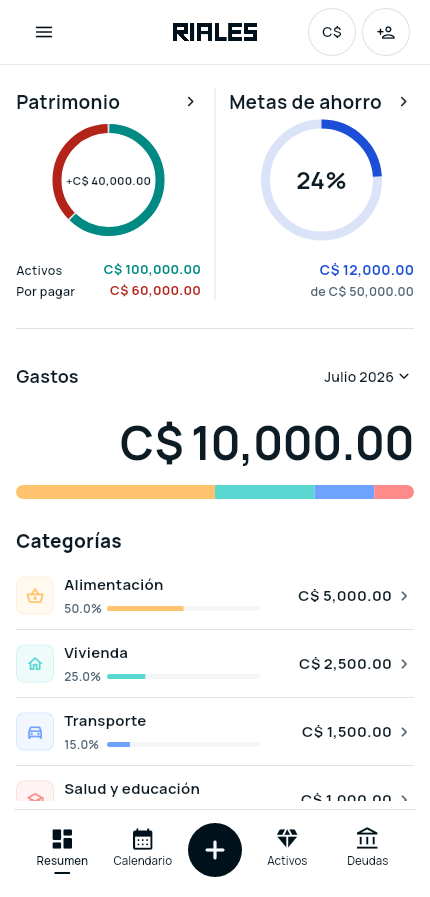
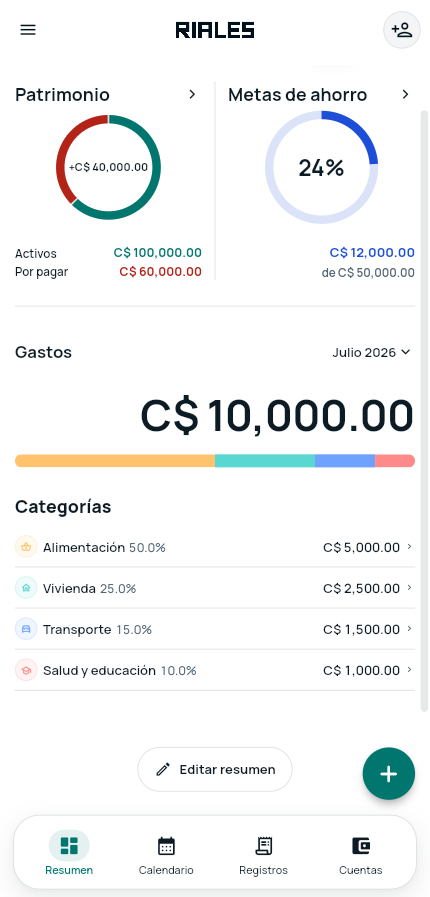
Deploy from a883082448d6c5763bde9acc114ca218c60708e1

diff --git a/index.html b/index.html
@@ -66,7 +66,7 @@
 
         <div class="hero-phones" aria-label="Pantalla principal de RIALES">
           <div class="device-mockup hero-device main-device">
-            <img class="real-screen" src="/assets/screen-resumen.png?v=20260818e" alt="Pantalla real del resumen de RIALES" width="430" height="897" />
+            <img class="real-screen" src="/assets/screen-resumen.png?v=20260908a" alt="Pantalla real del resumen de RIALES" width="430" height="897" />
           </div>
         </div>
 
@@ -109,7 +109,7 @@
 
           <div class="sms-visual" aria-label="Configuración de remitente y gasto SMS pendiente">
             <div class="device-mockup sms-device">
-              <img class="real-screen" src="/assets/screen-sms-remitente.png?v=20260818a" alt="Pantalla real de configuración de un remitente bancario en RIALES" width="430" height="897" />
+              <img class="real-screen" src="/assets/screen-sms-remitente.png?v=20260908a" alt="Pantalla real de configuración de un remitente bancario en RIALES" width="430" height="897" />
             </div>
             <div class="sms-popup-stack">
               <aside class="sms-review-popup sms-popup-compact sms-popup-secondary" aria-label="Gasto de gasolina pendiente de revisar">
@@ -177,7 +177,7 @@
 
         <div class="summary-infographic" aria-label="Patrimonio, metas de ahorro y gastos por categoría en la pantalla Resumen">
           <div class="device-mockup summary-device">
-            <img class="real-screen" src="/assets/screen-resumen-finanzas.png?v=20260819a" alt="Pantalla real del resumen de RIALES con patrimonio, metas de ahorro y gastos por categoría" width="430" height="897" loading="lazy" decoding="async" />
+            <img class="real-screen" src="/assets/screen-resumen-finanzas.png?v=20260908a" alt="Pantalla real del resumen de RIALES con patrimonio, metas de ahorro y gastos por categoría" width="430" height="897" loading="lazy" decoding="async" />
           </div>
 
           <aside class="summary-callout callout-net-worth">
@@ -372,7 +372,7 @@
                         <span>Registros financieros</span>
                       </span>
                     </th>
-                    <td data-plan="Gratis"><span class="limit-value">30/mes + anuncios</span></td>
+                    <td data-plan="Gratis"><span class="limit-value">100/mes</span></td>
                     <td data-plan="Pro"><span class="limit-value">Sin límite</span></td>
                   </tr>
                   <tr>
@@ -425,7 +425,9 @@
                         <span>Cargas de PDF bancario</span>
                       </span>
                     </th>
-                    <td data-plan="Gratis"><span class="limit-value">Con anuncios</span></td>
+                    <td data-plan="Gratis">
+                      <span class="availability-mark is-unavailable" aria-label="No incluido">×</span>
+                    </td>
                     <td data-plan="Pro"><span class="limit-value">Sin límite</span></td>
                   </tr>
                   <tr>
@@ -440,26 +442,9 @@
                       </span>
                     </th>
                     <td data-plan="Gratis">
-                      <span class="limit-value">Con anuncios</span>
+                      <span class="availability-mark is-unavailable" aria-label="No incluido">×</span>
                     </td>
                     <td data-plan="Pro"><span class="limit-value">Sin límite</span></td>
-                  </tr>
-                  <tr>
-                    <th scope="row">
-                      <span class="pricing-feature-label">
-                        <svg class="pricing-feature-icon" viewBox="0 0 24 24" aria-hidden="true" focusable="false">
-                          <path d="M5.75 4.75h12.5A2.75 2.75 0 0 1 21 7.5v9A2.75 2.75 0 0 1 18.25 19.25H5.75A2.75 2.75 0 0 1 3 16.5v-9A2.75 2.75 0 0 1 5.75 4.75Z" />
-                          <path d="M7.5 9.5h9M7.5 13h5.25M16.25 15.25h.01" />
-                        </svg>
-                        <span>Sin anuncios</span>
-                      </span>
-                    </th>
-                    <td data-plan="Gratis">
-                      <span class="availability-mark is-unavailable" aria-label="No">×</span>
-                    </td>
-                    <td data-plan="Pro">
-                      <span class="availability-mark is-available" aria-label="Sí">✓</span>
-                    </td>
                   </tr>
                 </tbody>
               </table>
@@ -472,7 +457,7 @@
                   <dl>
                     <div>
                       <dt>Registros financieros</dt>
-                      <dd>30/mes + anuncios</dd>
+                      <dd>100/mes</dd>
                     </div>
                     <div>
                       <dt>Cuentas bancarias</dt>
@@ -488,16 +473,14 @@
                     </div>
                     <div>
                       <dt>Cargas de PDF bancario</dt>
-                      <dd>Con anuncios</dd>
+                      <dd>
+                        <span class="availability-mark is-unavailable" aria-label="No incluido">×</span>
+                      </dd>
                     </div>
                     <div>
                       <dt>Exportación de datos para IA</dt>
-                      <dd>Con anuncios</dd>
-                    </div>
-                    <div>
-                      <dt>Sin anuncios</dt>
                       <dd>
-                        <span class="availability-mark is-unavailable" aria-label="No">×</span>
+                        <span class="availability-mark is-unavailable" aria-label="No incluido">×</span>
                       </dd>
                     </div>
                   </dl>
@@ -538,12 +521,6 @@
                     <div>
                       <dt>Exportación de datos para IA</dt>
                       <dd>Sin límite</dd>
-                    </div>
-                    <div>
-                      <dt>Sin anuncios</dt>
-                      <dd>
-                        <span class="availability-mark is-available" aria-label="Sí">✓</span>
-                      </dd>
                     </div>
                   </dl>
                 </article>

diff --git a/terminos/index.html b/terminos/index.html
@@ -154,10 +154,10 @@
         </article>
 
         <article class="legal-card">
-          <h2>7. Planes, compras y publicidad</h2>
+          <h2>7. Planes y compras</h2>
           <p>
-            RIALES ofrece los planes Gratis y Pro. Las funciones, límites
-            y publicidad aplicables se muestran antes de contratar o cambiar un
+            RIALES ofrece los planes Gratis y Pro. Las funciones y límites
+            aplicables se muestran antes de contratar o cambiar un
             plan. Las suscripciones disponibles en Android se cobran y
             administran mediante Google Play; el precio, impuestos, renovación,
             cancelación, reembolsos y cambios de vigencia dependen de la
@@ -171,13 +171,11 @@
             usa el precio Pro vigente y no recupera el precio heredado.
           </p>
           <p>
-            El plan Gratis puede mostrar banners y anuncios automáticos con
-            límites de frecuencia. En Gratis podés elegir ver un anuncio
-            para obtener créditos en una cuota compatible. El crédito solo se
-            acredita después de la verificación técnica, no equivale a dinero,
-            no es transferible y solo se usa para la función indicada. Los
-            créditos bonificados no usados vencen el primer día de cada mes,
-            cuando también se reinicia la cuota mensual incluida en Gratis.
+            Gratis incluye 100 registros financieros al mes. La cuota se
+            renueva el primer día de cada mes, a medianoche de Nicaragua.
+            RIALES no muestra publicidad ni ofrece créditos o recargas por
+            anuncios. La importación de PDF bancario y la exportación de datos
+            para IA son exclusivas de Pro.
             Para ese cupo, cada transferencia cuenta como un registro aunque
             incluya comisión bancaria; la comisión no genera un segundo
             registro.
